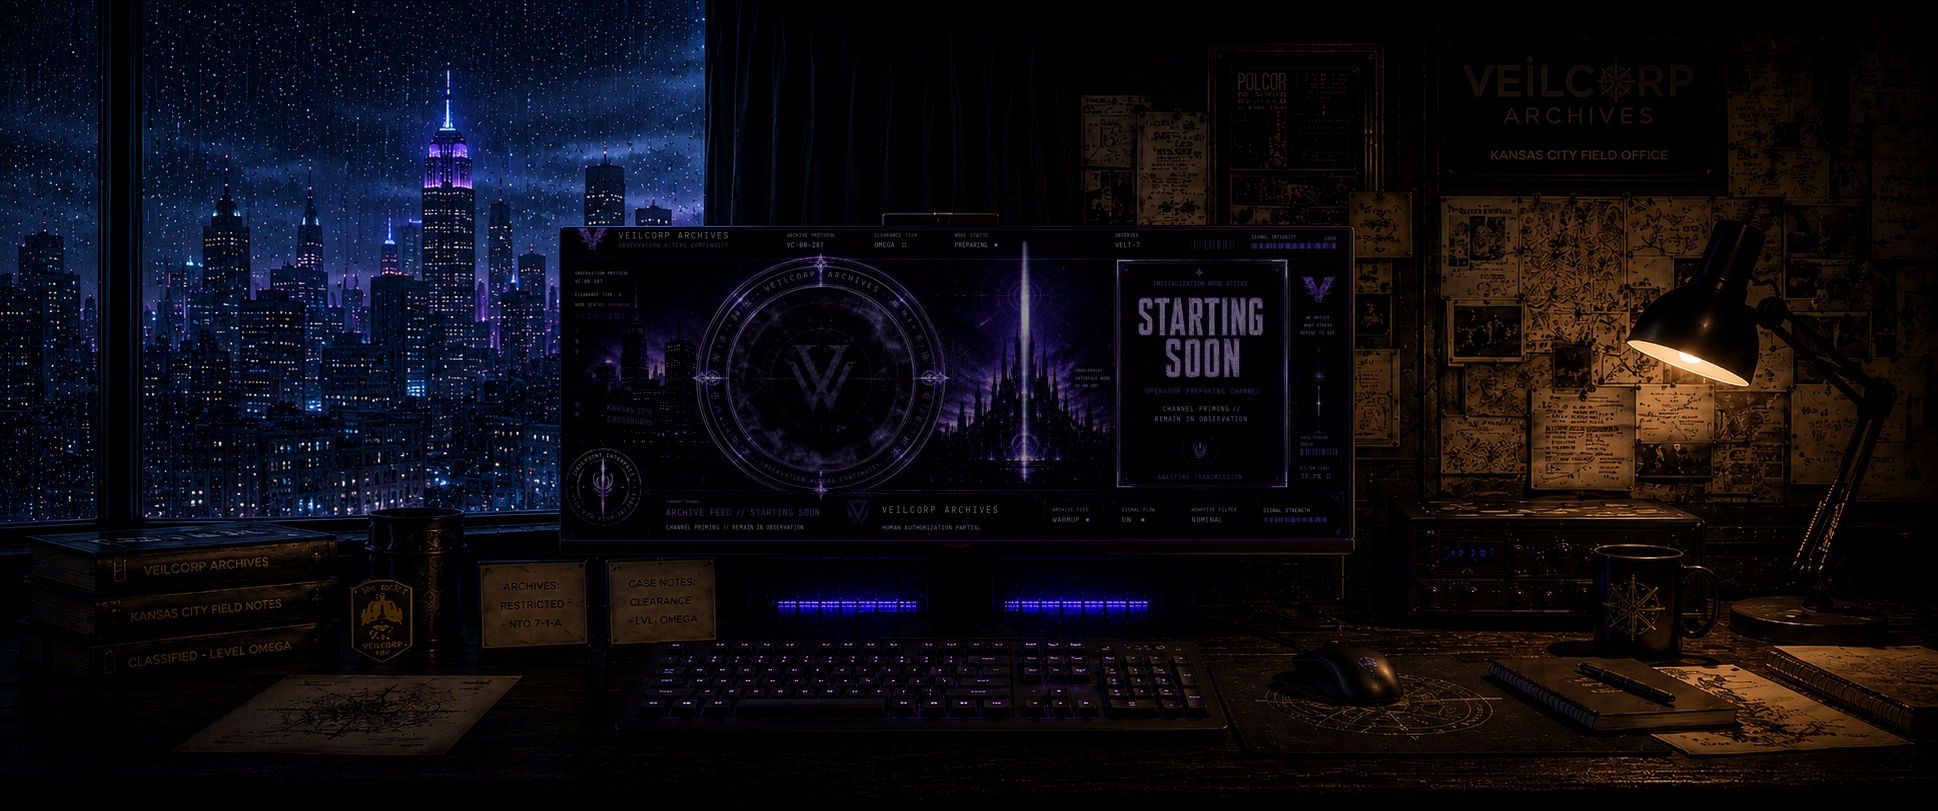
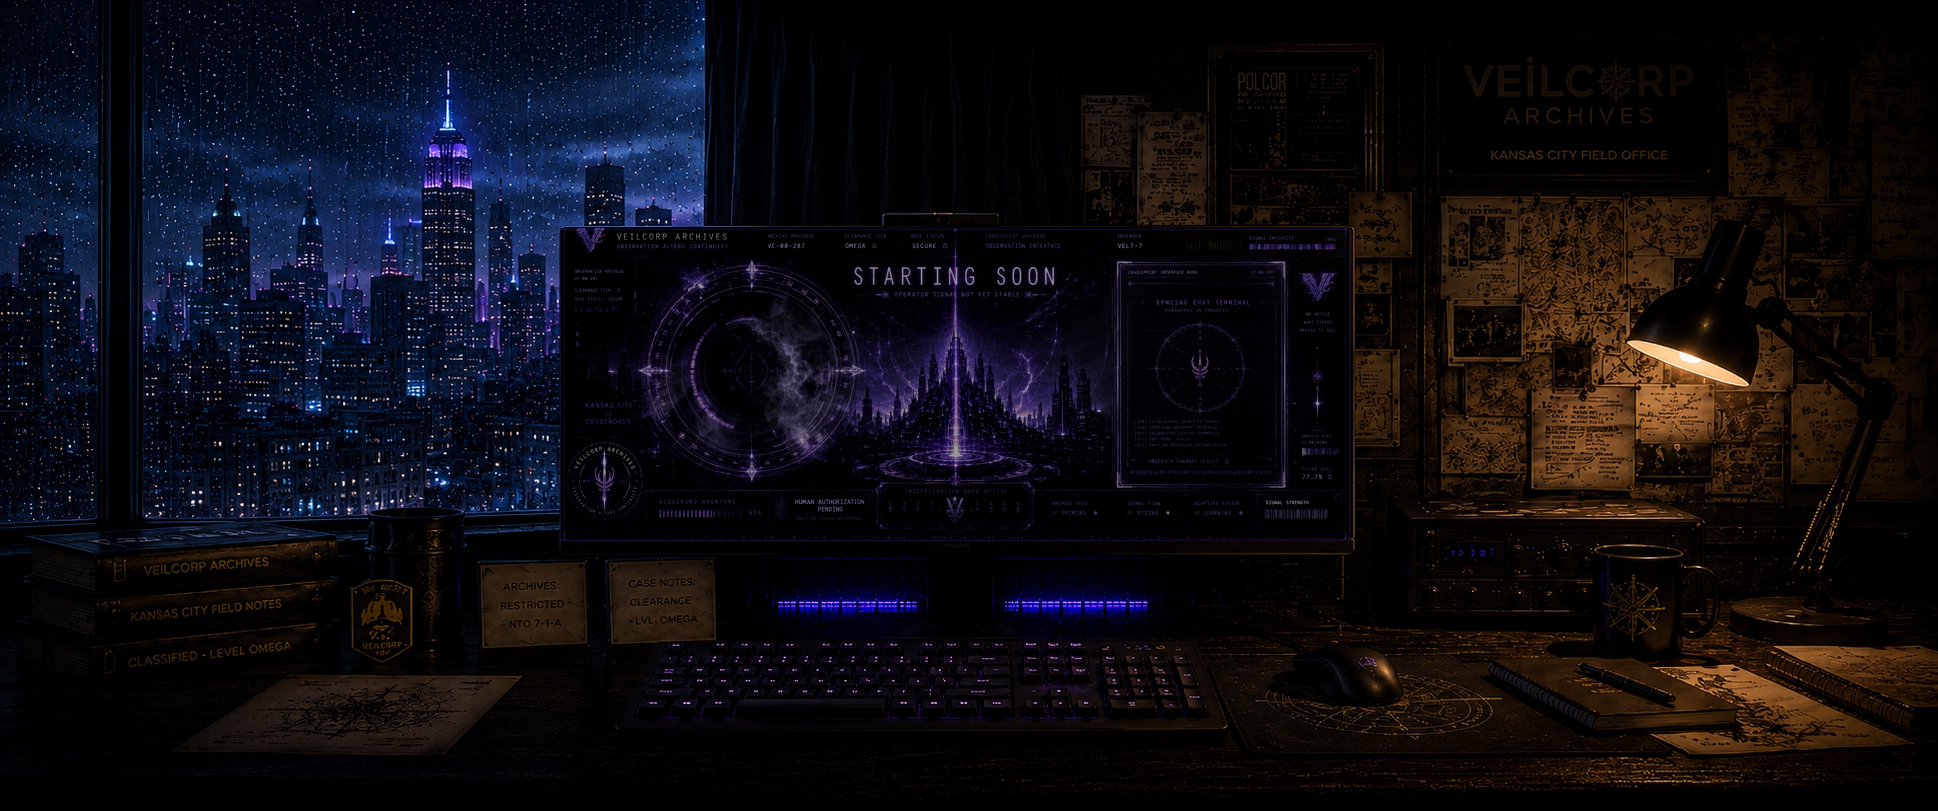
Update starting asset and bump cache versions
Replace stream/starting/assets/starting-nested.png with updated artwork and update README to note Starting2.png is now composited into Starting3.png. Bump references in index.html and preview.html (style.css and image query params) to v=20260609-starting2 to force a cache refresh.

Changed region(s): [[0.2786, 0.2774, 0.7121, 0.6473], [0.2786, 0.3391, 0.3096, 0.3699]]

diff --git a/stream/starting/index.html b/stream/starting/index.html
@@ -6,11 +6,11 @@
   <title>VEILCORP // Starting Soon</title>
   <meta name="robots" content="noindex" />
   <link rel="icon" href="../../favicon.ico?v=20260608-veilcorp1" sizes="any" />
-  <link rel="stylesheet" href="style.css?v=20260609-starting1" />
+  <link rel="stylesheet" href="style.css?v=20260609-starting2" />
 </head>
 <body>
   <main class="starting-stage" aria-label="VeilCorp starting soon screen">
-    <img src="assets/starting-nested.png?v=20260609-starting1" alt="" />
+    <img src="assets/starting-nested.png?v=20260609-starting2" alt="" />
   </main>
 </body>
 </html>

diff --git a/stream/starting/preview.html b/stream/starting/preview.html
@@ -6,11 +6,11 @@
   <title>VEILCORP // Starting Soon Preview</title>
   <meta name="robots" content="noindex" />
   <link rel="icon" href="../../favicon.ico?v=20260608-veilcorp1" sizes="any" />
-  <link rel="stylesheet" href="style.css?v=20260609-starting1" />
+  <link rel="stylesheet" href="style.css?v=20260609-starting2" />
 </head>
 <body class="preview-mode">
   <main class="starting-stage" aria-label="VeilCorp starting soon preview">
-    <img src="assets/starting-nested.png?v=20260609-starting1" alt="" />
+    <img src="assets/starting-nested.png?v=20260609-starting2" alt="" />
   </main>
 </body>
 </html>

diff --git a/stream/starting/README.md b/stream/starting/README.md
@@ -2,4 +2,4 @@
 
 Use `stream/starting/index.html` as the browser source.
 
-The base art is `assets/starting-nested.png`, with `Starting.png` composited into the monitor area of `Starting3.png`.
+The base art is `assets/starting-nested.png`, with `Starting2.png` composited into the monitor area of `Starting3.png`.